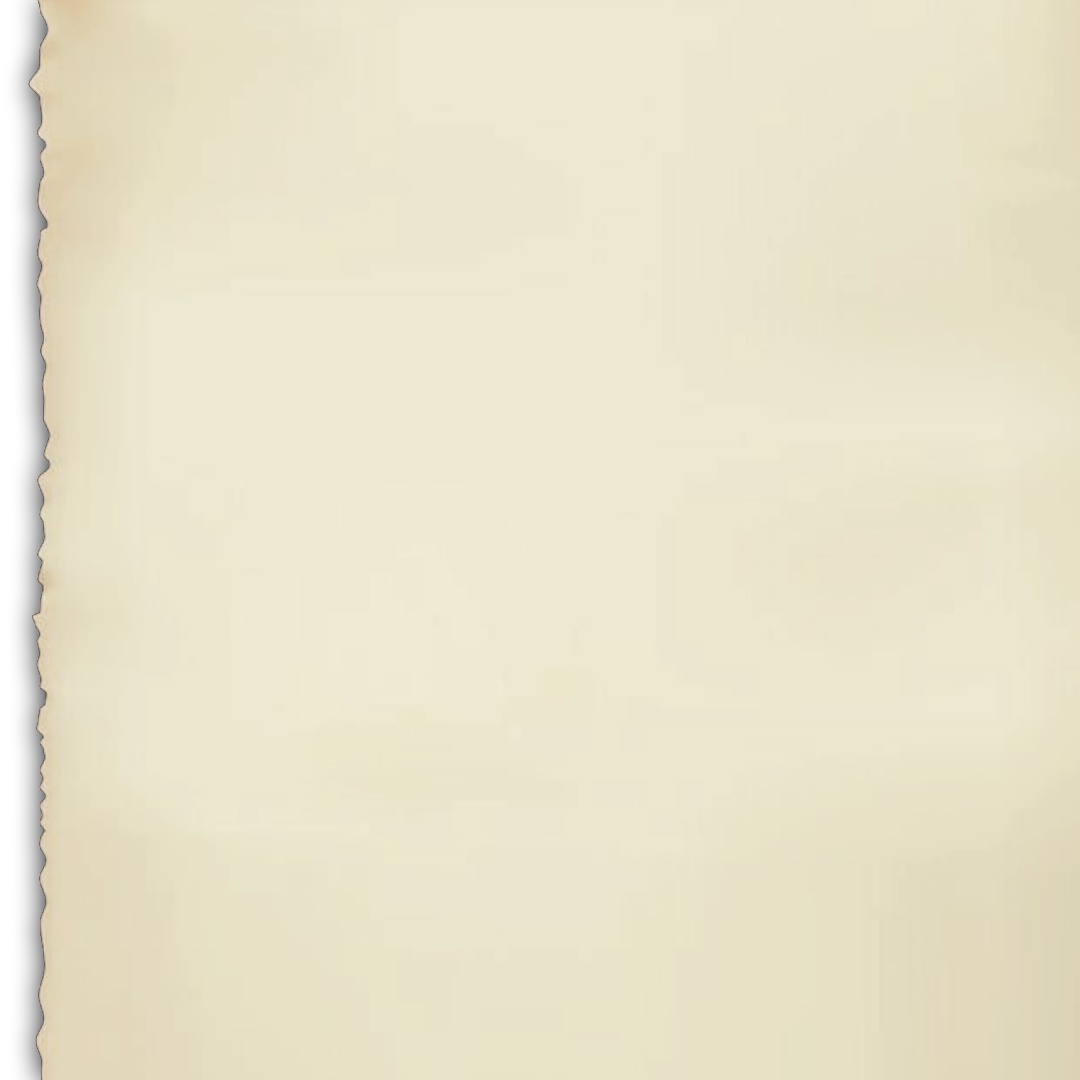
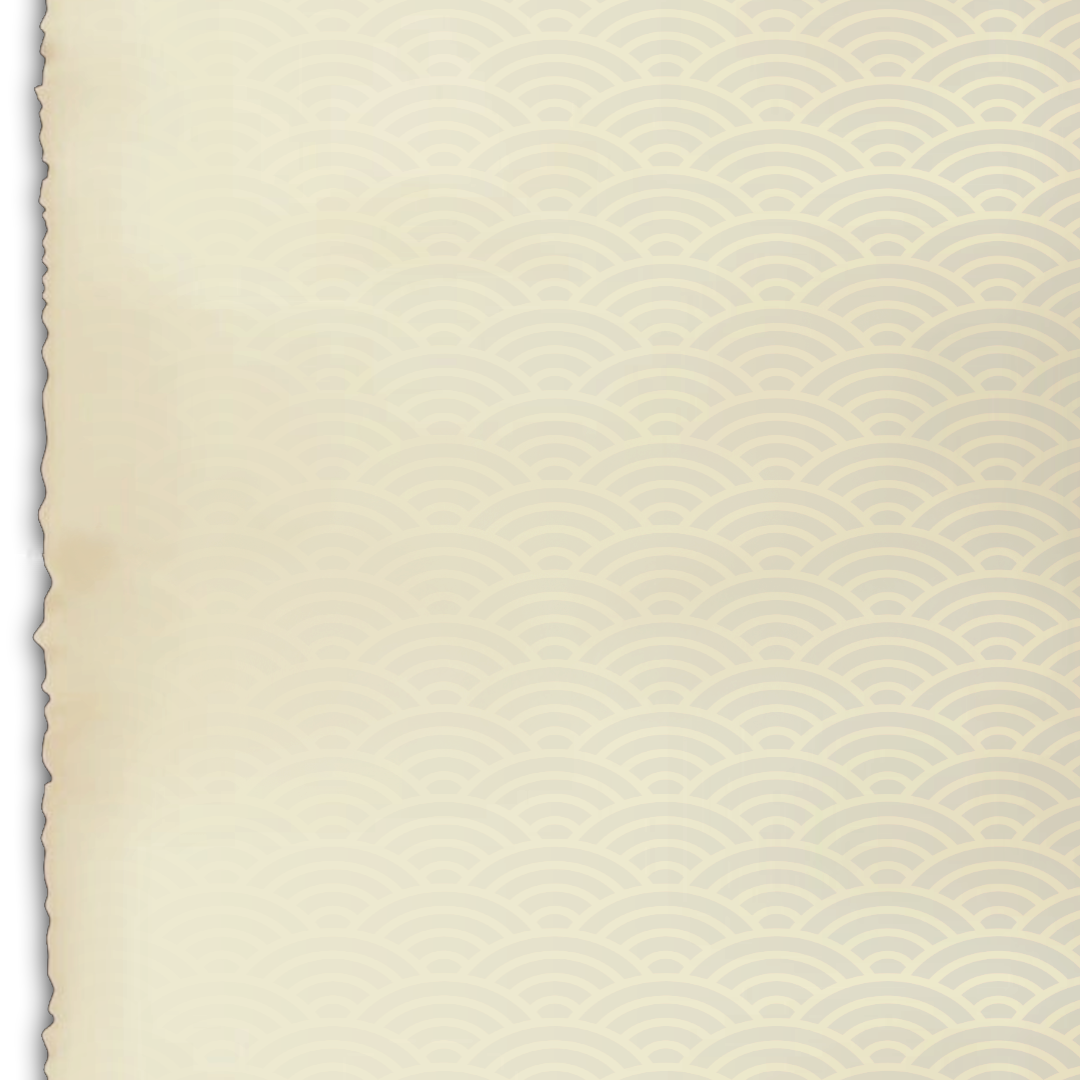
nav done

diff --git a/client/src/Component/Navbar/Navbar.jsx b/client/src/Component/Navbar/Navbar.jsx
@@ -5,11 +5,11 @@ import { NavLink } from "react-router-dom";
 import "./Navbar.scss";
 
 export default function Navbar() {
-
   const [position, setPosition] = useState({ top: "0rem" });
   const [lastScrollTop, setLastScrollTop] = useState(Infinity);
 
   const [isMenu, setIsMenu] = useState(false);
+  const [menuStyle, setMenuStyle] = useState({});
 
   // This Variable will store the top position
 
@@ -31,8 +31,17 @@ export default function Navbar() {
   });
 
   function showMenu() {
-    if (isMenu == true) setIsMenu(false);
-    else if (isMenu == false) setIsMenu(true);
+    if (isMenu == true) {
+      setIsMenu(false);
+      setMenuStyle({});
+    } else if (isMenu == false) {
+      setIsMenu(true);
+      setMenuStyle({
+        position: "fixed",
+        top: "0",
+        right: "0",
+      });
+    }
   }
 
   return (
@@ -44,14 +53,14 @@ export default function Navbar() {
       </section>
 
       <section className="menu">
-        <div className="menuStart" onClick={showMenu}>
+        <div className="menuStart" onClick={showMenu} style={menuStyle}>
           <div className="lines"></div>
           <div className="lines"></div>
         </div>
 
         {isMenu && (
           <>
-            <div className="menuBG" onClick={() => setIsMenu(false)}></div>
+            <div className="menuBG" onClick={showMenu}></div>
             <div className="menuBox">
               {/* <img src="oldpaper.png" alt="" /> */}
               <nav className="nav">

diff --git a/client/src/Component/Navbar/Navbar.scss b/client/src/Component/Navbar/Navbar.scss
@@ -71,7 +71,7 @@
             flex-direction: column;
             justify-content: space-between;
             align-items: flex-end;
-
+            
             & .lines {
                 width: 100px;
                 height: 4px;
@@ -98,6 +98,8 @@
             overflow: hidden;
             // background: rgb(169, 176, 167);
             background-image: url('https://github.com/tathagatamishra/Shubukan-India/blob/main/client/public/oldpaper.png?raw=true');
+            background-repeat: repeat-y;
+            background-size: 180%;
 
             display: flex;
             flex-direction: column;
@@ -152,7 +154,7 @@
                         text-decoration: none;
                         font-size: 18px;
                         font-weight: 900;
-                       
+                        text-shadow: 0 0 15px rgb(163, 150, 140);
                         font-family: 'Philosopher', sans-serif;
 
                         transition: 0.3s ease 0s, left 0.3s ease 0s;
